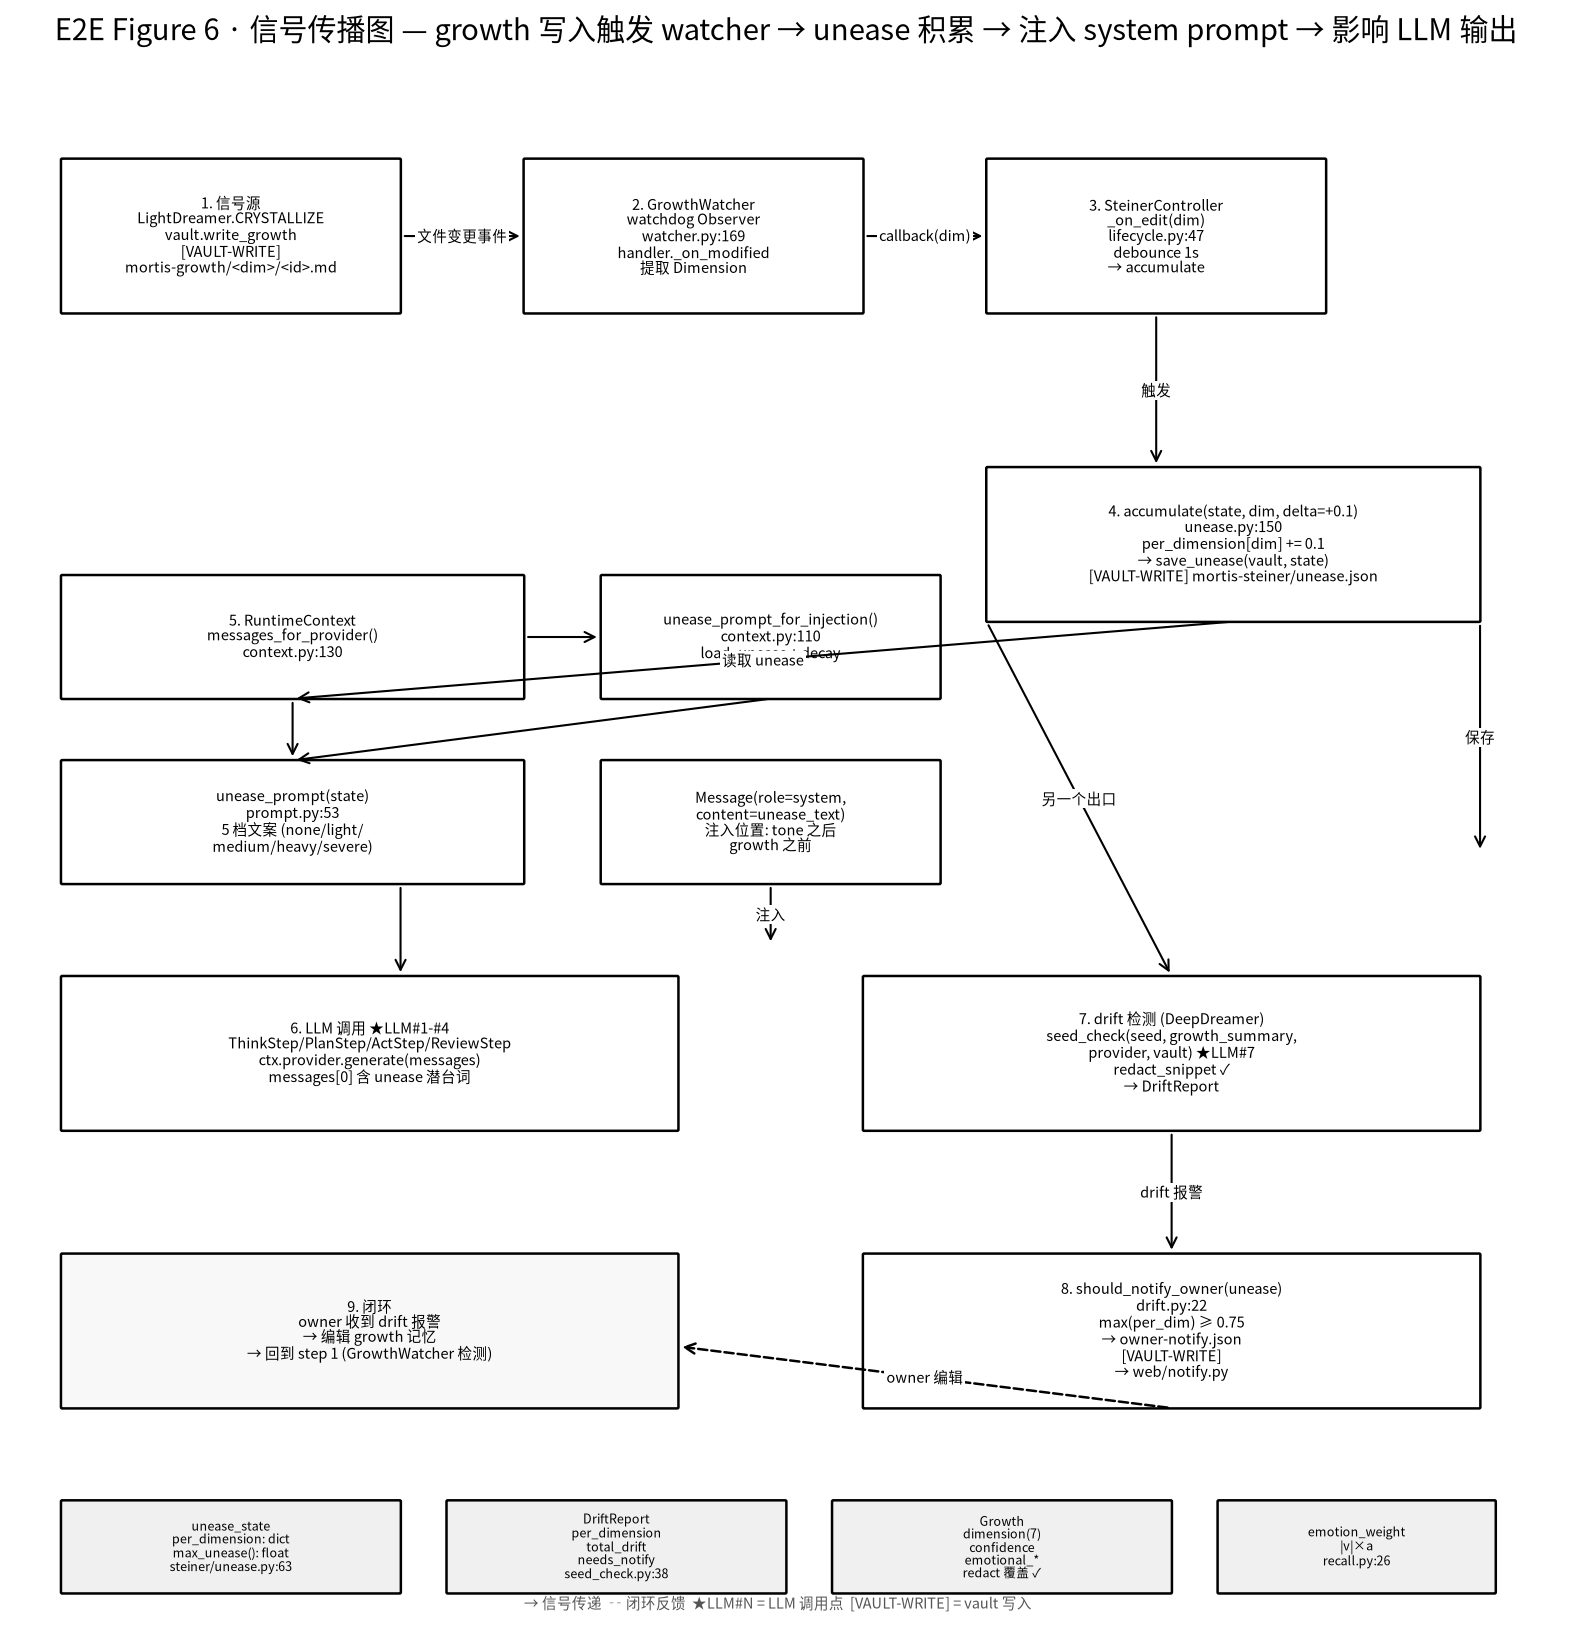
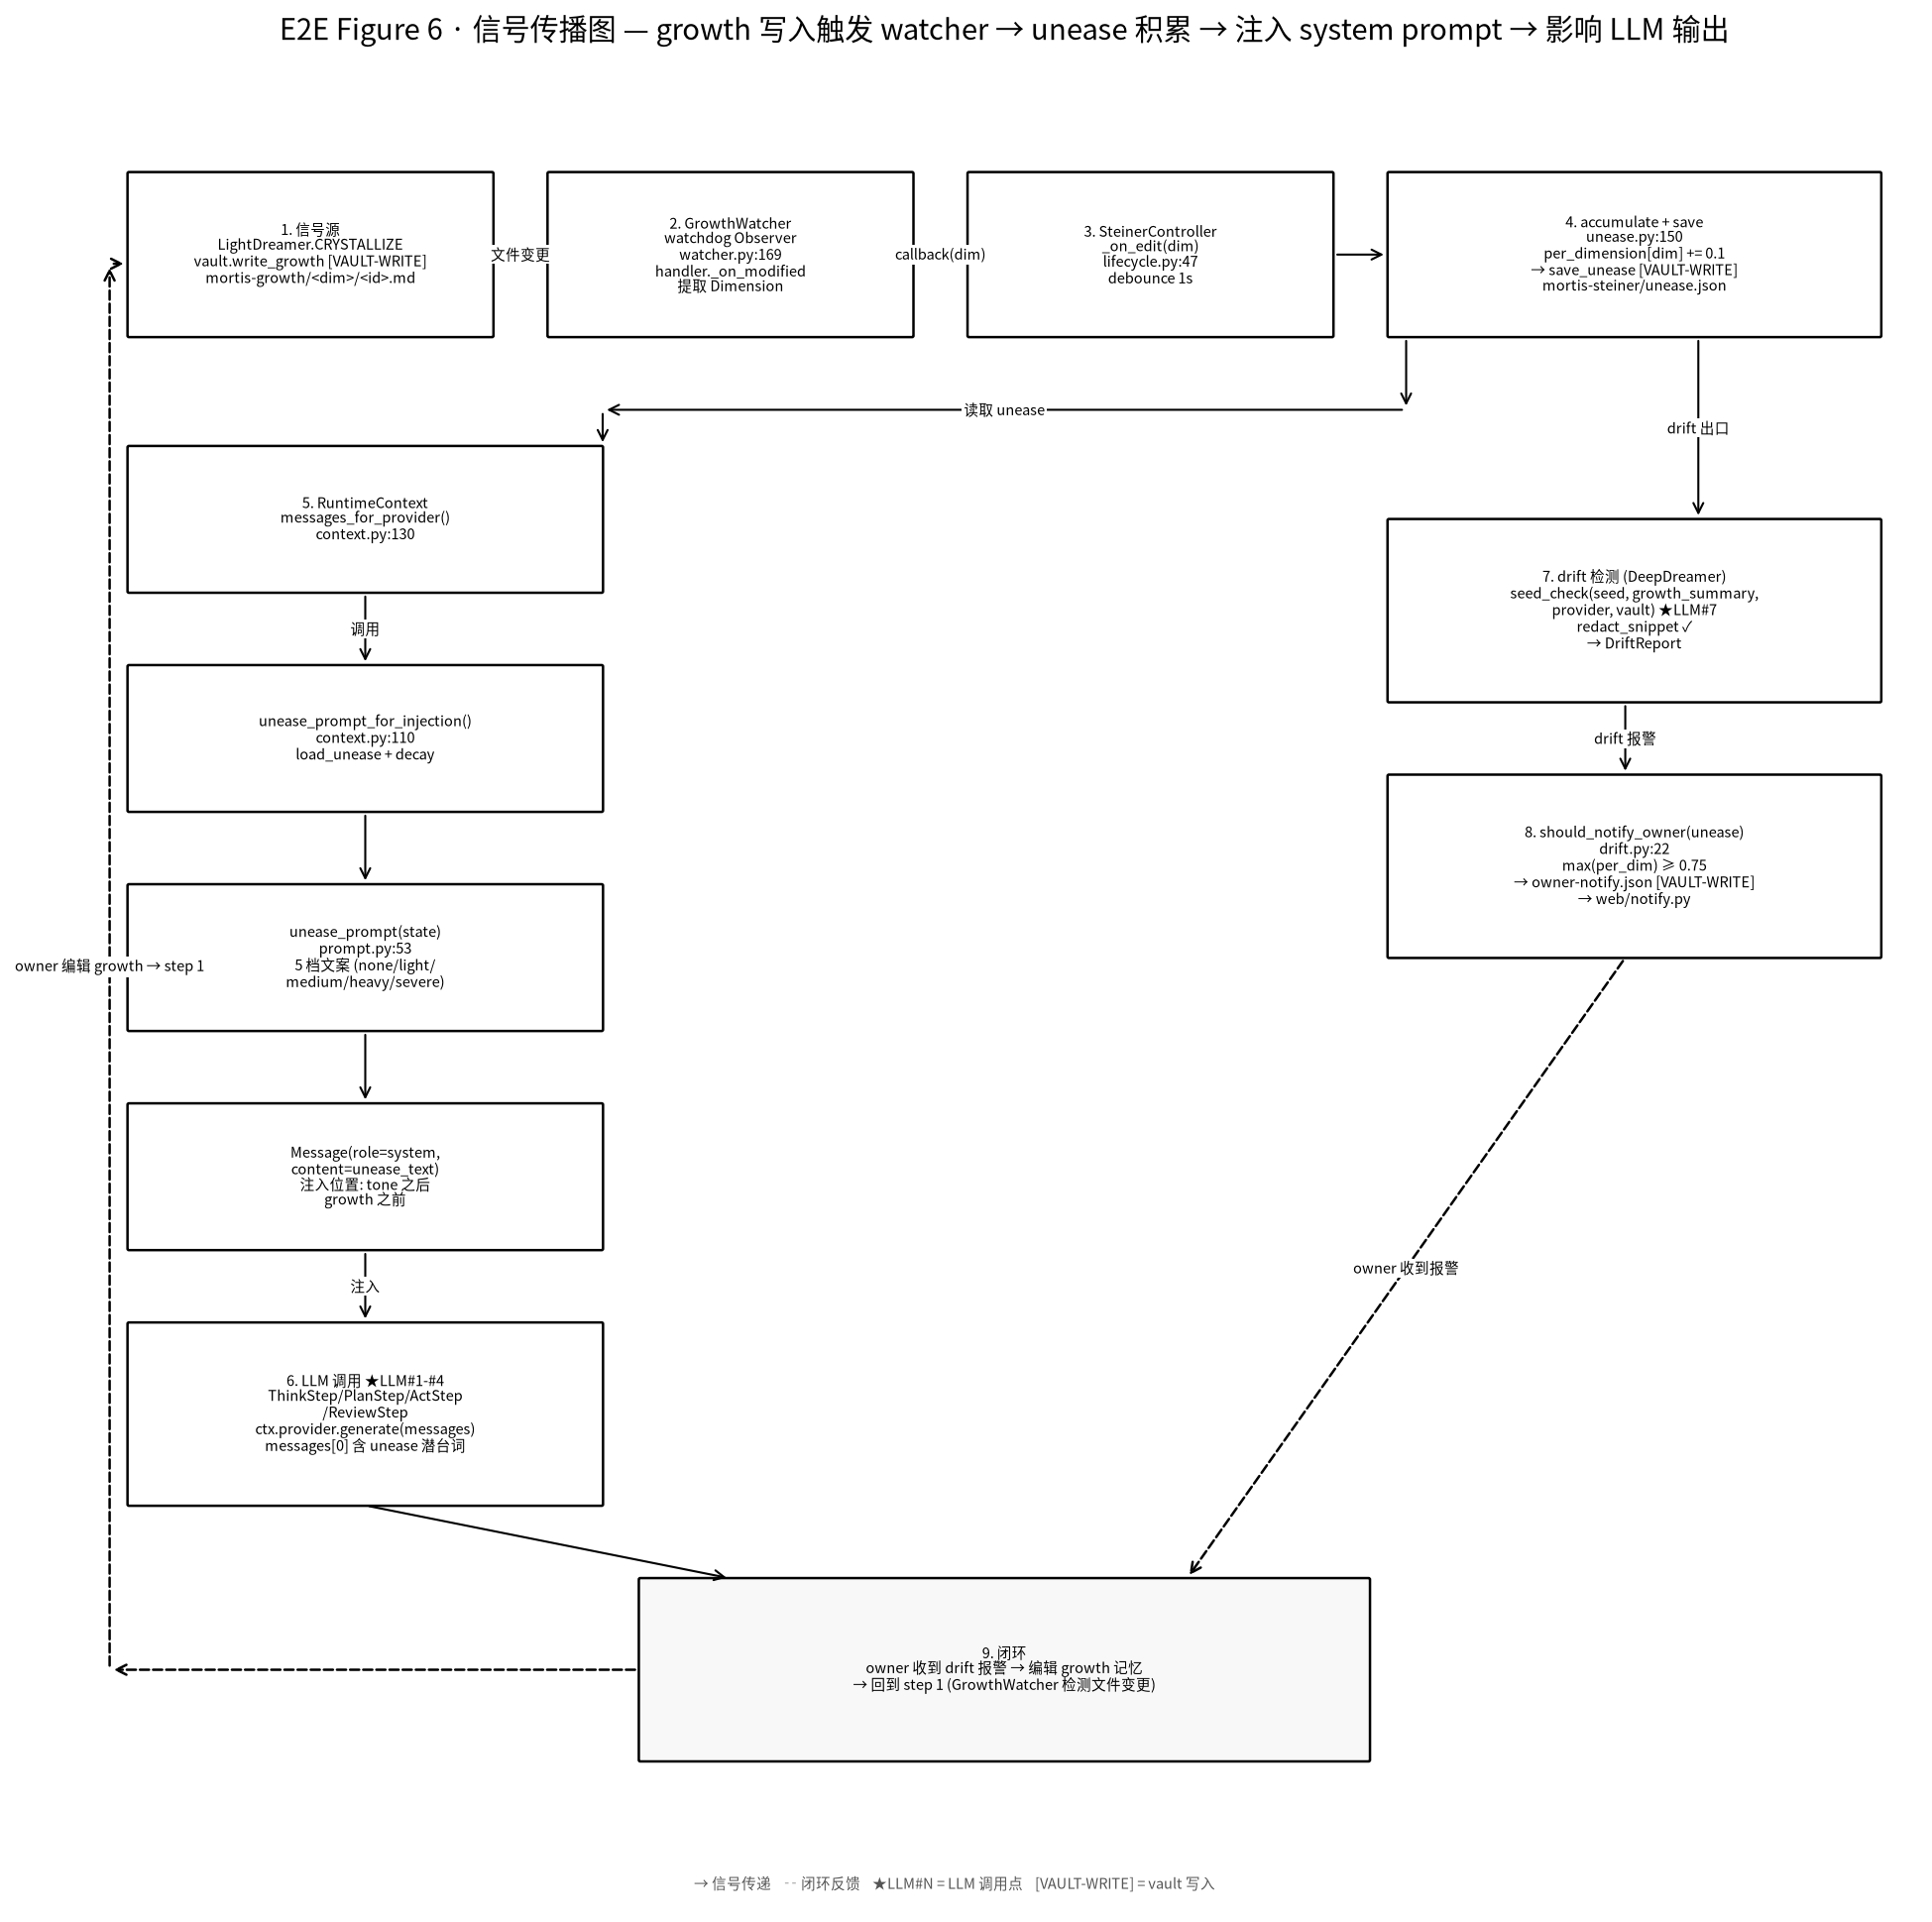
docs(audit-v3): 优化 e2e-06 信号传播图，消除"读取 unease"箭头压框问题
重构布局为左右两列结构：
- 顶部信号源链 1→2→3→4 水平排列
- 4→5 "读取 unease" 改为 L 形折线 (先下后左)，标签落在空白区不压框
- 左列注入链 (5→unease_prompt_for_injection→unease_prompt→Message→LLM) 垂直串联
- 右列 drift 链 (7→8) 垂直串联
- 9.闭环居中，闭环反馈箭头沿左边距向上不压任何框
- 移除底部 4 个数据结构小框，减少视觉杂乱

diff --git a/docs/mortis-audit-v3/render_images.py b/docs/mortis-audit-v3/render_images.py
@@ -1207,60 +1207,90 @@ def render_e2e_05_info_flow():
 # E2E Figure 6: 信号传播图
 # ============================================================
 def render_e2e_06_signal_flow():
-    fig, ax = _setup_ax((16, 11))
+    fig, ax = _setup_ax((16, 13))
     ax.set_title("E2E Figure 6 · 信号传播图 — growth 写入触发 watcher → unease 积累 → 注入 system prompt → 影响 LLM 输出",
                  fontsize=14, weight="bold", pad=20)
 
-    # 1. growth 写入 (信号源)
-    _box(ax, 3, 85, 22, 10, "1. 信号源\nLightDreamer.CRYSTALLIZE\nvault.write_growth\n[VAULT-WRITE]\nmortis-growth/<dim>/<id>.md", fontsize=7, weight="bold")
-    _arrow(ax, 25, 90, 33, 90, "文件变更事件")
+    # 顶部信号源链: 1→2→3→4 (水平)
+    _box(ax, 2, 86, 20, 9,
+         "1. 信号源\nLightDreamer.CRYSTALLIZE\nvault.write_growth [VAULT-WRITE]\nmortis-growth/<dim>/<id>.md",
+         fontsize=7, weight="bold")
+    _arrow(ax, 22, 90.5, 25, 90.5, "文件变更")
 
-    # 2. GrowthWatcher
-    _box(ax, 33, 85, 22, 10, "2. GrowthWatcher\nwatchdog Observer\nwatcher.py:169\nhandler._on_modified\n提取 Dimension", fontsize=7)
-    _arrow(ax, 55, 90, 63, 90, "callback(dim)")
+    _box(ax, 25, 86, 20, 9,
+         "2. GrowthWatcher\nwatchdog Observer\nwatcher.py:169\nhandler._on_modified\n提取 Dimension",
+         fontsize=7)
+    _arrow(ax, 45, 90.5, 48, 90.5, "callback(dim)")
 
-    # 3. SteinerController
-    _box(ax, 63, 85, 22, 10, "3. SteinerController\n_on_edit(dim)\nlifecycle.py:47\ndebounce 1s\n→ accumulate", fontsize=7)
-    _arrow(ax, 74, 85, 74, 75, "触发")
+    _box(ax, 48, 86, 20, 9,
+         "3. SteinerController\n_on_edit(dim)\nlifecycle.py:47\ndebounce 1s",
+         fontsize=7)
+    _arrow(ax, 68, 90.5, 71, 90.5)
 
-    # 4. accumulate + save
-    _box(ax, 63, 65, 32, 10, "4. accumulate(state, dim, delta=+0.1)\nunease.py:150\nper_dimension[dim] += 0.1\n→ save_unease(vault, state)\n[VAULT-WRITE] mortis-steiner/unease.json", fontsize=7)
-    _arrow(ax, 95, 65, 95, 50, "保存")
+    _box(ax, 71, 86, 27, 9,
+         "4. accumulate + save\nunease.py:150\nper_dimension[dim] += 0.1\n→ save_unease [VAULT-WRITE]\nmortis-steiner/unease.json",
+         fontsize=7, weight="bold")
 
-    # 5. 注入 RuntimeContext
-    _box(ax, 3, 60, 30, 8, "5. RuntimeContext\nmessages_for_provider()\ncontext.py:130", fontsize=7, weight="bold")
-    _box(ax, 38, 60, 22, 8, "unease_prompt_for_injection()\ncontext.py:110\nload_unease + decay", fontsize=7)
-    _box(ax, 3, 48, 30, 8, "unease_prompt(state)\nprompt.py:53\n5 档文案 (none/light/\nmedium/heavy/severe)", fontsize=7)
-    _box(ax, 38, 48, 22, 8, "Message(role=system,\ncontent=unease_text)\n注入位置: tone 之后\ngrowth 之前", fontsize=7)
-    _arrow(ax, 79, 65, 18, 60, "读取 unease")
-    _arrow(ax, 18, 60, 18, 56)
-    _arrow(ax, 33, 64, 38, 64)
-    _arrow(ax, 49, 60, 18, 56)
-    _arrow(ax, 49, 48, 49, 44, "注入")
+    # 4 → 5 "读取 unease": L 形（先下后左），标签落在空白区，不压任何框
+    _arrow(ax, 72, 86, 72, 82)
+    _arrow(ax, 72, 82, 28, 82, "读取 unease")
+    _arrow(ax, 28, 82, 28, 80)
 
-    # 6. 影响 LLM
-    _box(ax, 3, 32, 40, 10, "6. LLM 调用 ★LLM#1-#4\nThinkStep/PlanStep/ActStep/ReviewStep\nctx.provider.generate(messages)\nmessages[0] 含 unease 潜台词", fontsize=7, weight="bold")
-    _arrow(ax, 25, 48, 25, 42)
+    # 4 → 7 "drift 出口": 垂直向下
+    _arrow(ax, 88, 86, 88, 76, "drift 出口")
 
-    # 7. drift 检测 (闭环另一条路)
-    _box(ax, 55, 32, 40, 10, "7. drift 检测 (DeepDreamer)\nseed_check(seed, growth_summary,\nprovider, vault) ★LLM#7\nredact_snippet ✓\n→ DriftReport", fontsize=7)
-    _arrow(ax, 63, 65, 75, 42, "另一个出口")
+    # 左列: 注入链 (5 → unease_prompt_for_injection → unease_prompt → Message → LLM)
+    _box(ax, 2, 72, 26, 8,
+         "5. RuntimeContext\nmessages_for_provider()\ncontext.py:130",
+         fontsize=7, weight="bold")
+    _arrow(ax, 15, 72, 15, 68, "调用")
 
-    # 8. owner 通知 (闭环)
-    _box(ax, 55, 14, 40, 10, "8. should_notify_owner(unease)\ndrift.py:22\nmax(per_dim) ≥ 0.75\n→ owner-notify.json\n[VAULT-WRITE]\n→ web/notify.py", fontsize=7)
-    _arrow(ax, 75, 32, 75, 24, "drift 报警")
+    _box(ax, 2, 60, 26, 8,
+         "unease_prompt_for_injection()\ncontext.py:110\nload_unease + decay",
+         fontsize=7)
+    _arrow(ax, 15, 60, 15, 56)
 
-    # 9. 闭环
-    _box(ax, 3, 14, 40, 10, "9. 闭环\nowner 收到 drift 报警\n→ 编辑 growth 记忆\n→ 回到 step 1 (GrowthWatcher 检测)", fontsize=7, fc="#F8F8F8", weight="bold")
-    _arrow(ax, 75, 14, 43, 18, "owner 编辑", ls="--", lw=1.2)
+    _box(ax, 2, 48, 26, 8,
+         "unease_prompt(state)\nprompt.py:53\n5 档文案 (none/light/\nmedium/heavy/severe)",
+         fontsize=7)
+    _arrow(ax, 15, 48, 15, 44)
 
-    # 信号数据结构标注
-    _box(ax, 3, 2, 22, 6, "unease_state\nper_dimension: dict\nmax_unease(): float\nsteiner/unease.py:63", fontsize=6, fc="#F0F0F0")
-    _box(ax, 28, 2, 22, 6, "DriftReport\nper_dimension\ntotal_drift\nneeds_notify\nseed_check.py:38", fontsize=6, fc="#F0F0F0")
-    _box(ax, 53, 2, 22, 6, "Growth\ndimension(7)\nconfidence\nemotional_*\nredact 覆盖 ✓", fontsize=6, fc="#F0F0F0")
-    _box(ax, 78, 2, 18, 6, "emotion_weight\n|v|×a\nrecall.py:26", fontsize=6, fc="#F0F0F0")
+    _box(ax, 2, 36, 26, 8,
+         "Message(role=system,\ncontent=unease_text)\n注入位置: tone 之后\ngrowth 之前",
+         fontsize=7)
+    _arrow(ax, 15, 36, 15, 32, "注入")
 
-    ax.text(33, 1, "→ 信号传递  ╌ 闭环反馈  ★LLM#N = LLM 调用点  [VAULT-WRITE] = vault 写入",
+    _box(ax, 2, 22, 26, 10,
+         "6. LLM 调用 ★LLM#1-#4\nThinkStep/PlanStep/ActStep\n/ReviewStep\nctx.provider.generate(messages)\nmessages[0] 含 unease 潜台词",
+         fontsize=7, weight="bold")
+
+    # 右列: drift 链 (7 → 8)
+    _box(ax, 71, 66, 27, 10,
+         "7. drift 检测 (DeepDreamer)\nseed_check(seed, growth_summary,\nprovider, vault) ★LLM#7\nredact_snippet ✓\n→ DriftReport",
+         fontsize=7, weight="bold")
+    _arrow(ax, 84, 66, 84, 62, "drift 报警")
+
+    _box(ax, 71, 52, 27, 10,
+         "8. should_notify_owner(unease)\ndrift.py:22\nmax(per_dim) ≥ 0.75\n→ owner-notify.json [VAULT-WRITE]\n→ web/notify.py",
+         fontsize=7, weight="bold")
+
+    # 8 → 9 "owner 编辑": 斜线穿过右下空白区
+    _arrow(ax, 84, 52, 60, 18, "owner 收到报警", ls="--", lw=1.2)
+
+    # 9. 闭环 (底部居中)
+    _box(ax, 30, 8, 40, 10,
+         "9. 闭环\nowner 收到 drift 报警 → 编辑 growth 记忆\n→ 回到 step 1 (GrowthWatcher 检测文件变更)",
+         fontsize=7, fc="#F8F8F8", weight="bold")
+
+    # 9 → 1 闭环反馈: 沿左边距向上 (x=1)，不压任何左列框
+    _arrow(ax, 30, 13, 1, 13, ls="--", lw=1.2)
+    _arrow(ax, 1, 13, 1, 90, "owner 编辑 growth → step 1", ls="--", lw=1.2)
+    _arrow(ax, 1, 90, 2, 90, ls="--", lw=1.2)
+
+    # LLM → 闭环
+    _arrow(ax, 15, 22, 35, 18)
+
+    ax.text(33, 1, "→ 信号传递    ╌ 闭环反馈    ★LLM#N = LLM 调用点    [VAULT-WRITE] = vault 写入",
             fontsize=7, color="#555555")
 
     plt.tight_layout()